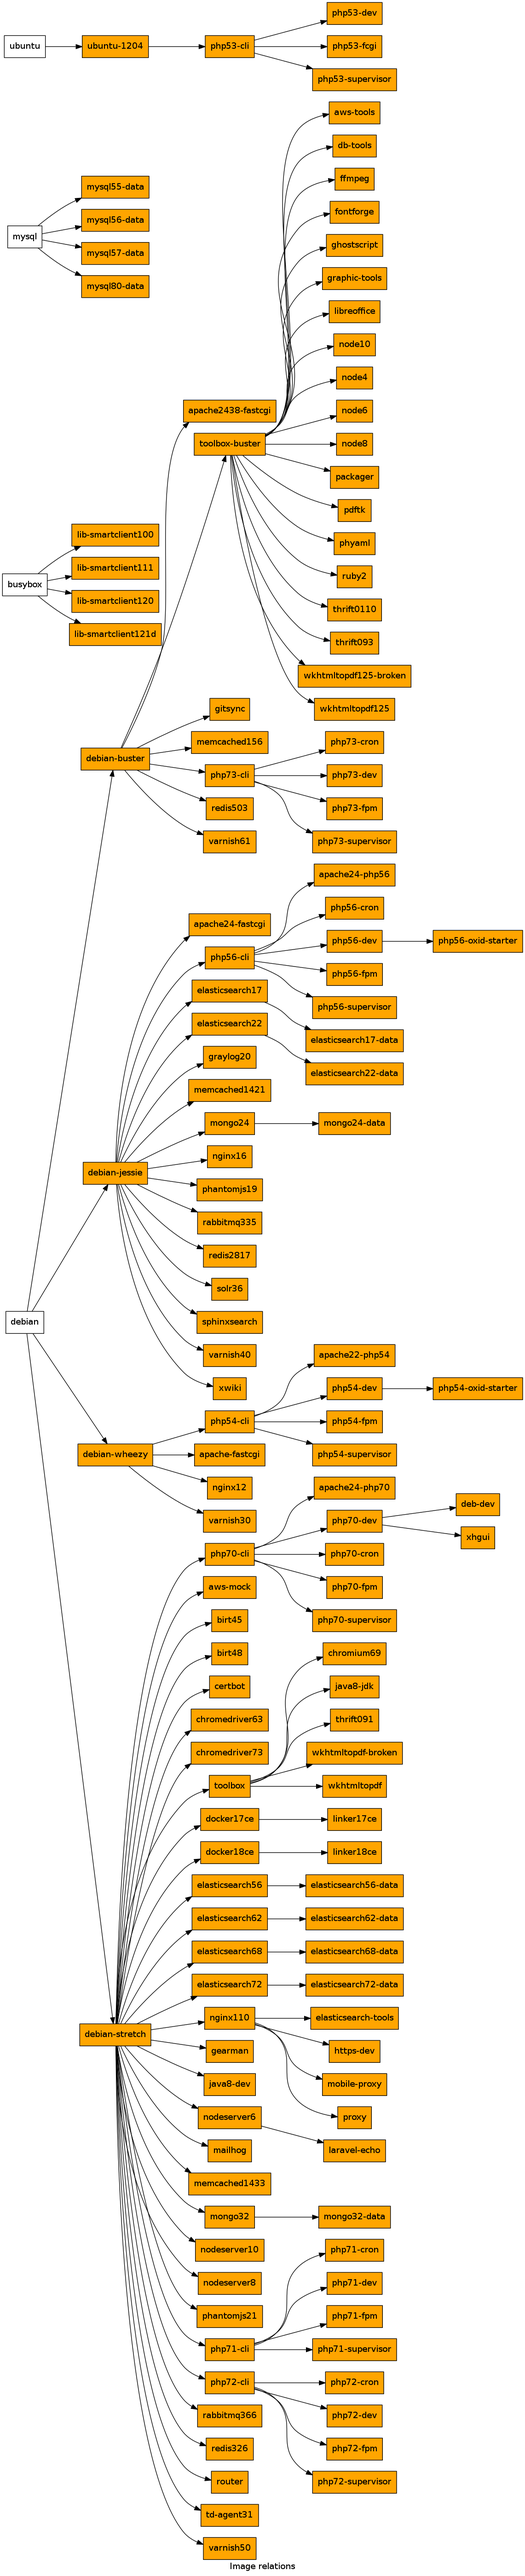
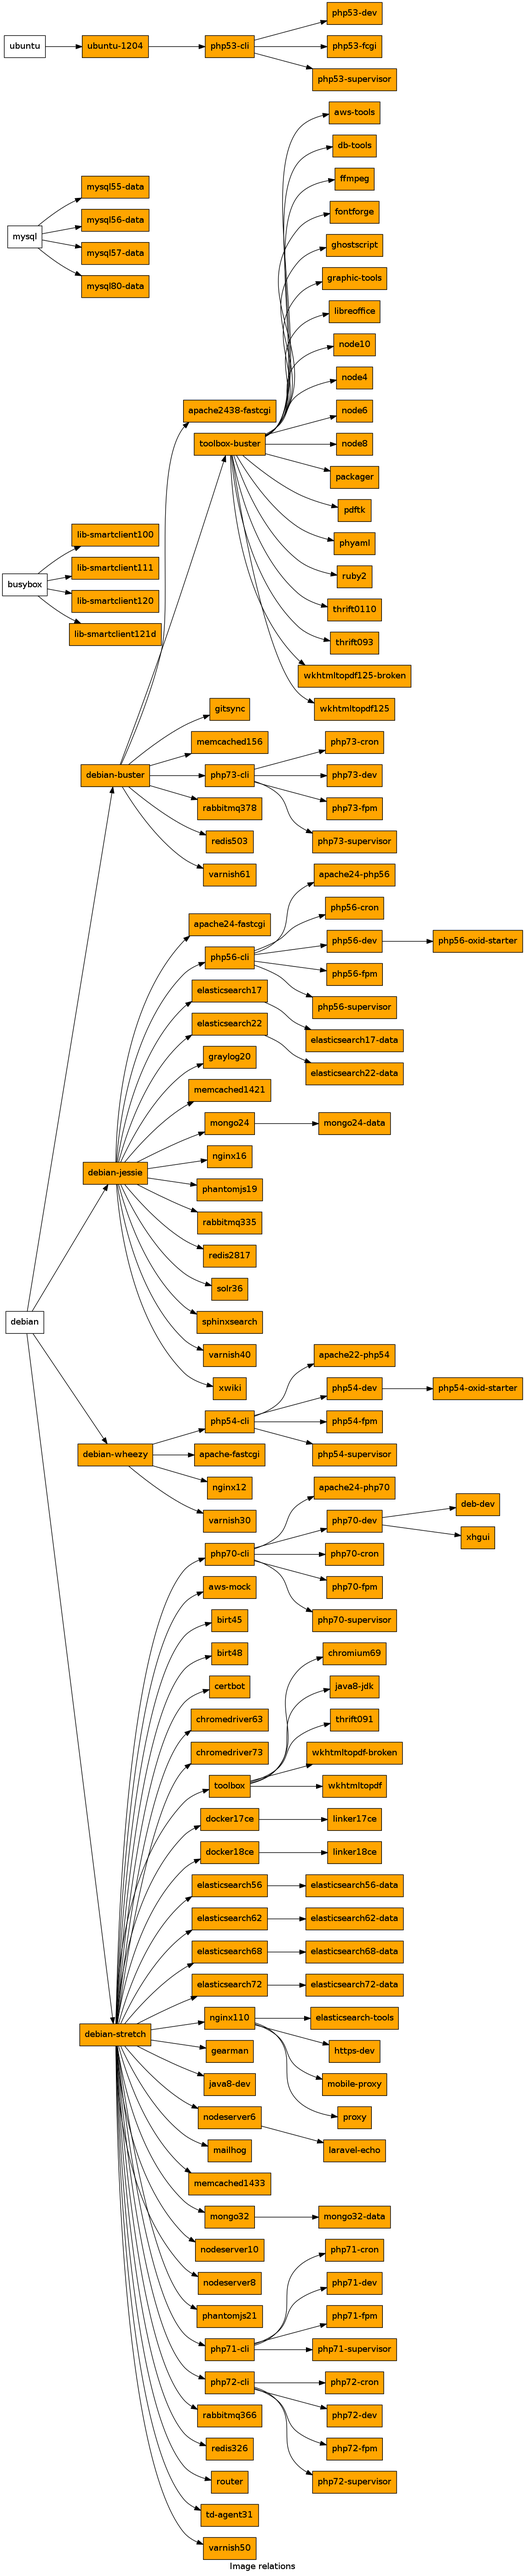
adding buster based rabbitmq378 imagewq

diff --git a/rabbitmq378/README.md b/rabbitmq378/README.md
@@ -1,0 +1,49 @@
+
+
+## supported env vars
+
+
+### NFQ_ENABLE_RABBITMQ_MODULES (optional)
+
+Provide space separated lists of modules in a single quoted string
+
+example:
+    docker run -it -e NFQ_ENABLE_RABBITMQ_MODULES='rabbitmq_management rabbitmq_top' <this_image>
+
+#### list of available modules
+
+* rabbitmq_amqp1_0
+* rabbitmq_auth_backend_cache
+* rabbitmq_auth_backend_http
+* rabbitmq_auth_backend_ldap
+* rabbitmq_auth_mechanism_ssl
+* rabbitmq_consistent_hash_exchange
+* rabbitmq_event_exchange
+* rabbitmq_federation
+* rabbitmq_federation_management
+* rabbitmq_jms_topic_exchange
+* rabbitmq_management
+* rabbitmq_management_agent
+* rabbitmq_mqtt
+* rabbitmq_peer_discovery_aws
+* rabbitmq_peer_discovery_common
+* rabbitmq_peer_discovery_consul
+* rabbitmq_peer_discovery_etcd
+* rabbitmq_peer_discovery_k8s
+* rabbitmq_random_exchange
+* rabbitmq_recent_history_exchange
+* rabbitmq_sharding
+* rabbitmq_shovel
+* rabbitmq_shovel_management
+* rabbitmq_stomp
+* rabbitmq_top
+* rabbitmq_tracing
+* rabbitmq_trust_store
+* rabbitmq_web_dispatch
+* rabbitmq_web_mqtt
+* rabbitmq_web_mqtt_examples
+* rabbitmq_web_stomp
+* rabbitmq_web_stomp_examples
+* rabbitmq_delayed_message_exchange
+
+
